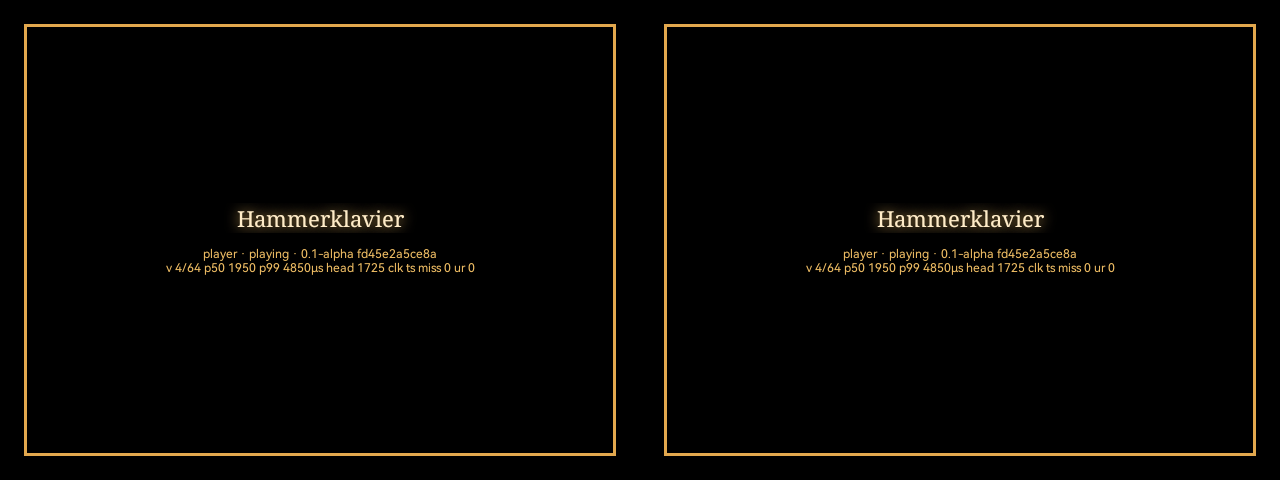
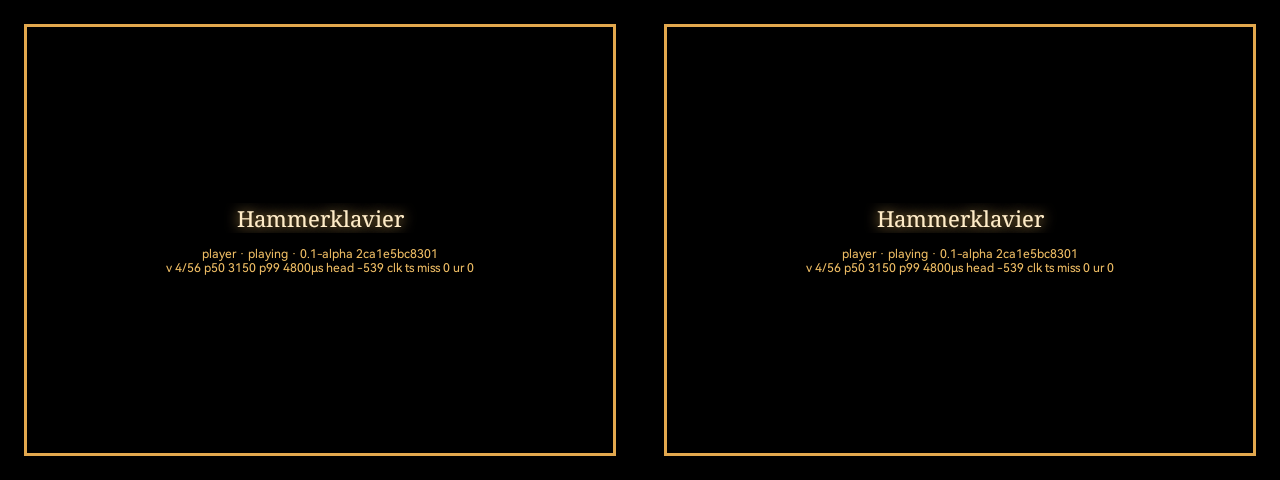
M1: integration log, final screencaps

Changed region(s): [[0.6562, 0.5, 0.875, 0.5625], [0.1562, 0.5, 0.375, 0.5625]]

diff --git a/docs/progress/INTEGRATION.md b/docs/progress/INTEGRATION.md
@@ -1,0 +1,95 @@
+# Integration log (WP0 integrator)
+
+Device: RayNeo X3 Pro `A06B4A96A733283` (sdk 32, 4 × Cortex-A55, Adreno 621). Every number below is from the
+release build (`isDebuggable=false`, `cmd package compile -m speed -f`, md5 verified by `tools/device/run.sh`).
+
+## M1 First sound (2026-09-22/23): PASS, tag `milestone-M1`
+
+### Merged (full branches, `--no-ff`)
+| Branch | Tip | Notes |
+|---|---|---|
+| `wp11-assets` | 3089244 | kits (grand, upright, harpsichord, stub) through LFS (33 objects), catalogue, test MIDIs, fixtures, pipeline |
+| `wp1-midi` | e89bd82 | `midi.ScoreCompilerImpl` |
+| `wp2-engine` | 437cf8b | `engine.EngineCore`, EngineBench |
+| `wp3-dsp` | a678af9 | `dsp.DspFactory`, `dsp.RoomAcoustics` |
+| `wp4-audio` | 46ab13e | `audio.AudioOutput`, `audio.KitManager`, DecoderProbe, supervisor, SynthBank; one conflict (`docs/requests/WP4.md`, both kept) |
+
+### Wired (`Wiring.kt`, per docs/wiring/WP1–4, 11)
+- `compiler = ScoreCompilerImpl()`; `engine = EngineCore(DspFactory.create(HK.SR), cursors, head, HK.SR)`;
+  `audio = AudioOutput(app, engine, cursors, head, settings)`; `kits = KitManager(app, voicer, loader) { kit.standIn }`;
+  `designer = RoomAcoustics`. Library, scenes, mechanics, UI, GL host, overlay: still stubs.
+- The full DspSet is used (the M1 row says "limiter; others pass-through"; every wiring note uses the full set and
+  EngineBench needs the real stages). No `RoomDesign` is posted yet (WP12).
+- **Stand-in bank:** `kit.standIn` (default true until M2) makes every instrument open the WP11 stub kit
+  (30 regions, voiced from its PCM cache); `--ez standin false` + restart opens the real kits.
+- **Interim `Playback` driver** (app package, until WP12's SessionController): kit callbacks → key map on HKLoader →
+  `audio.setBank`; `--es play synth:<n>|test:<n>|asset:<path>`; `--ez bench true [--ei benchsecs n]` (decode bench on
+  HKVoicer + EngineBench, voice cap from its `q0Cap`); `--ez stats true`; every 10 s `HKAudio stats …`, `HKClock drift …`
+  and `HKPerf hkaudio thread=…% meanMHz=… normalised=…%` (HKAudio utime+stime from /proc, normalised by the mean
+  policy0 frequency from `time_in_state` deltas). `--ez debug true` puts one audio line on the overlay (StubUi):
+  voices/cap, p50/p99, headroom, clock source (ts/est), clockMiss, underruns.
+- DebugControl keys added: `play`, `bench`, `benchsecs`, `lowlatency`, `standin`, `stats`; `gcstats` logs the heap.
+- `tools/device/smoke.sh M1` → `tools/device/smoke_m1.sh`.
+
+### Fixed during integration (details in docs/contracts-changelog.md, M1 entry)
+1. **HKLoader crash on the glasses:** `NoSuchMethodError MappedByteBuffer.duplicate()` (`:core` compiled against the
+   JDK 17 API links covariant `java.nio` overrides ART lacks). Calls go through `Buffer`/`ByteBuffer`;
+   `tools/check_nio_linkage.sh` (in ci.sh) scans `:core` bytecode.
+2. **pedalMode disagreement WP1 ↔ WP11** (bach_847/850: a single CC64 = 0): NONE; pipeline and golden regenerated.
+3. **AudioClock:** the track's first timestamp is off the line and blocked every later pair (tsAcc = 1 for a whole
+   session); now anchor-only, rate-checked against the anchor while the window is empty, reseed after 4 rejections;
+   clockMiss counts only overwritten records (not the ~300 ms before a new session's first record).
+4. **Headroom:** measured ahead of the DAC timestamp (the NONE route drained the client buffer in 7,680-frame pulls);
+   the guard also trips on underrun growth or render load > 92 % (the DAC measure hides an overrun).
+5. **Paused engine never idle:** voices frozen by a pause counted as active, so it never parked and rendered silence
+   at ~27 % CPU; `idle` now ignores frozen voices (and is false while the bench runs, else a bench from parked
+   never stepped).
+6. **Main-thread stall ≈ 1 s** when the bank arrived: `prepareBank` now runs on `HKPrepare`.
+7. **T-GC:** Qualcomm `BoostFramework$ScrollOptimizer.setVsyncTime` allocates ~1.5 KB per vsync delivered to a
+   Choreographer (simpleperf, debug build): ~92 KB/s from PerfProbe's per-frame hitch detector and StubGlHost's pacing.
+   Both now use main-thread Handler ticks: ~28–37 KB/s remain. Request to WP6 (docs/requests/WP6.md).
+8. **Track mode (deviation from §3.1, plan owner):** `PERFORMANCE_MODE_NONE` lands on the DEEP_BUFFER output here
+   (7,680-frame pulls, lat ≈ 14,300 frames ≈ 300 ms, drift p99 0.85–2.1 ms → the drift line failed). The LOW_LATENCY
+   request lands on the primary output's FastMixer with a 4,096-frame buffer (the plan's intended size):
+   lat 5,208 frames (108 ms), drift p99 0.28–0.54 ms. `audio.lowLatency` now defaults to true (`--ez lowlatency false`
+   restores NONE).
+
+### Gate results (build 2ca1e5b, 2026-09-23 00:15–00:27, plugged in, `device_wearing=1`)
+| Item | Result | Pass line |
+|---|---|---|
+| `tools/ci.sh` | PASS (core + app unit tests, purity, nio linkage, 70 pipeline tests, ledger, size: APK 85.8 MB ≤ 100 MB) | green |
+| `tools/device/run.sh` | installed, md5 verified, speed-compiled | |
+| `tools/device/smoke.sh M1` | **PASS** (14 checks plus the FAIL/crash/hitch scan; self-test pass=11 fail=0 skip=1 (companion); tornRead 10.5 M reads, 0 mismatches) | no FAIL |
+| synth:scale / pedalhalf / storm64 | all sound on the stand-in bank; compile 0.6–4.2 ms / 2.6–4.7 ms / 385 ms (46,080 notes) | sound |
+| Debug overlay | voices, p50/p99, headroom, clock source, misses, underruns in both eyes (docs/shots/m1_*_debug.png) | shown |
+| Audio with display asleep | stats with voices > 0 and parked=false between sleep and wake (smoke); 5 min asleep run below | keeps playing |
+| `--ez bench true` decode | 60.1 s of Opus in 1.27–1.31 s = **46–48× real time**, setup **60–80 ms** (`c2.android.opus.decoder`); 24× / 120 ms in the slow state (below) | recorded |
+| `--ez bench true` EngineBench | q0Cap **64** (cap set: clamp floor); ns per unit at 1.8 GHz: voice Hermite 112–114, linear 66, copy 48, spectral +37–40, comb 54–57, comb no-dispersion 54–55, soft 48–52, room 1,161–1,240 /frame, master 389–393 /frame | recorded |
+| T-UND 5 min display on + 5 min asleep | **0 underruns** (73 stats lines, all 0), rebuilds 0, headroom min after warm-up **4,253** frames | 0 |
+| HKAudio on synth:scale | **14.2–14.6 %** normalised (thread 39.6–39.7 % at 718–738 MHz mean); 12.2–12.8 % on the NONE track | < 15 % |
+| T-GC (5 min playback, display on) | **1 GC** (56 ms); heap used 7.8 → 5.8 MiB after it. Asleep 5 min: 0 GCs, used 6.0 → 16.5 MiB uncollected (allocated 11 MB ≈ 36 KB/s) | ≤ 2 GCs; heap flat |
+| Drift line | p99 \|eᵢ\| **0.28–0.54 ms** (median 0.35) over 73 ten-second readings; fs_fit within **±0.0085 %** of 48 kHz | ≤ 1 ms; ≤ 0.5 % |
+| T-CLOCK | fromTimestamp=true 1 s after every play and after un-park (idle park, then resume); clockMiss **0**; `killall audioserver` not permitted for the shell; Bluetooth toggle and speaker→wired not exercised (see open) | ≤ 1 s; clockMiss 0 |
+
+### Open issues (carried)
+- **T-CLOCK output loss / route change** not exercised on the glasses: `killall audioserver` is refused
+  ("Operation not permitted"), toggling Bluetooth is a device setting for the user to do, and there is no wired
+  output. The rebuild path is unit-tested (`deadObjectRebuildsTheTrackAtTheSamePosition`). Do at M3 with the BT headset.
+- **HOME kills the app:** the RayNeo launcher (Mercury `BackgroundAppManager`) force-stops the app ≈ 1 s after HOME with
+  the display on, playing or paused. The §8.3 clock cycle uses the idle park instead. WP12/M6 (T-LEAVE) must save the
+  resume point in `onStop` immediately. Sleep keeps the app alive and playing.
+- **Bimodal device speed:** in some sessions everything (including EngineBench's own fixed loop) runs ~2× slower at the
+  same reported 1.8–2.0 GHz with all cores pinned (bench voice 221–226 ns vs 112–114; storm64 97.7 % of a core and
+  underruns vs 42 % normalised). No thermal cooling state active; SoC 40–44 °C in both. Likely memory-side (L3/DDR
+  memlat) scaling; not controllable by the app; perf counters are not permitted. Now the guard steps the voice cap
+  down on underruns. T-CPU at M2 must record which state it ran in.
+- **T-CPU budget (M2):** storm64 on the stand-in bank is 42–43 % normalised in the fast state (limit 42 %), p99
+  5.6–8.5 ms (limit 3.2 ms); on the LOW_LATENCY track the headroom guard stepped the cap 64 → 56 during storm64
+  (render load > 92 %), with 0 underruns. Combs cost ≈ 100 cycles per comb-frame against §3.16's 22 (WP3 request 9 answered);
+  the room is ≈ 0.3 ms per block.
+- **EngineBench frequency normalisation** reads `scaling_cur_freq` once; its 2 ms slices often run while the governor
+  sits lower, so `nsVoice2`/`q0Cap` swing (q0Cap stayed 64). WP2: use `time_in_state` deltas over the run.
+- **T-GC asleep:** no GC in 5 min but the used heap before a GC includes garbage; confirm live-heap flatness at M2 with
+  a forced-GC reading. The ~28–37 KB/s that remain are unattributed (below the profiler's sampling floor).
+- Plan owner: §3.1 track mode (item 8 above), the M1 full-DspSet wiring, WP3 requests 1–4, 8, 10, WP1's
+  `RejectReason.MALFORMED` and fold-merge change (next contracts round).
